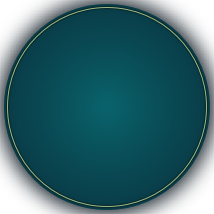
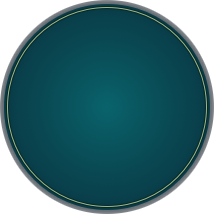
Display speed and distance on gauge

diff --git a/SpeedGauge.qml b/SpeedGauge.qml
@@ -11,6 +11,30 @@ Item {
     source: "assets/svgBackgroundCircle.png"
 
     Image {
+      id: topCircle
+      source: "assets/TopCircle.png"
+      anchors.centerIn: parent
+      Text {
+        id: currentSpeed
+        text: speedControl.value
+        color: "white"
+        font.pixelSize: 32
+        anchors.centerIn: parent
+      }
+      Text {
+        id: distance
+        text: (speedControl.distance / 1000).toFixed(0) + " km"
+        color: "white"
+        font.pixelSize: 16
+        anchors {
+          horizontalCenter: parent.horizontalCenter
+          bottom: parent.bottom
+          bottomMargin: 50
+        }
+
+      }
+    }
+    Image {
       id: speedNumbers
       source: "assets/Speed\ texture.png"
       anchors.centerIn: parent
@@ -39,8 +63,9 @@ Item {
   // Statistics histogram
   Window {
     id: statisticsWindow
-    width: speedHistogram.width
-    height: speedHistogram.height
+    minimumWidth: speedHistogram.width
+    minimumHeight: speedHistogram.height
+    title: "SpeedGauge Histogram"
     visible: true
     Histogram {
       id: speedHistogram

diff --git a/main.qml b/main.qml
@@ -2,11 +2,12 @@ import QtQuick 2.15
 import QtQuick.Window 2.15
 
 Window {
-  width: 640
-  height: 480
+  minimumWidth: speedGauge.width
+  minimumHeight: speedGauge.height
   visible: true
   title: qsTr("SpeedGauge Test")
   SpeedGauge {
+    id: speedGauge
     anchors.top: parent.top
     anchors.horizontalCenter: parent.horizontalCenter
   }

diff --git a/gaugecontrol.cpp b/gaugecontrol.cpp
@@ -51,7 +51,7 @@ void GaugeControl::calculate_value() {
   auto t = to_radians(m_time);
   // I thought "max_value" would be the maximum, but sometimes output larger that max
   // Actual limit is 3.25 / 3.0 = 1.083....
-  m_value = static_cast<int>(abs(sin(t)+sin(4*t)/4+2*sin(t/16))/3 * m_maxValue / (3.25 / 3.0));
+  m_value = static_cast<int>(std::floor((abs(sin(t)+sin(4*t)/4+2*sin(t/16))/3 * m_maxValue / (3.25 / 3.0)) + 0.5));
   emit valueChanged(m_value);
 }
 

diff --git a/README.md b/README.md
@@ -1,16 +1,21 @@
 # Junior task for Siili_Auto 2022
 
+[Screenshot of the application](screenshots/Screenshot1506.png)
+
 ## Notes on each task
 
 ### 1 [QML]: The gauge graphics
 
+TopCircle.png shading was cropped awkwardly, so removed it altogether.
+
 ### 2 [QML,C++]: Velocity Control
 
 Done as QML_NAMED_ELEMENT(GaugeControl). In principle should be able to control any gauge.
+The provided simulation-model would produce values larger than "max_speed" as the function limit really is not 1 but 3.25/3.0. Tried to work around it, but currently high-end speeds are scarcely generated.
 
 ### 3 [C++]: External sources
 
-GaugeControl input defaults to stdin -> allows piping and streaming a text file. E.g. *./speed_simulation | ./appSiili_Task* or *./appSiili_Task << speed_data.txt*. Implemented simple switch -s or --simulated to use internally simulated data. As a consequence you can have simulation and input-reading running simultaneously. Treating as a feature, not a bug: user is responsible.
+GaugeControl input defaults to stdin -> allows piping and streaming a text file. E.g. *"./speed_simulation | ./appSiili_Task"* or *"./appSiili_Task << speed_data.txt"*. Implemented simple switch -s or --simulated to use internally simulated data. As a consequence you can have simulation and input-reading running simultaneously. Treating as a feature, not a bug: user is responsible.
 
 ### 4 [C++]: Run in GUI or terminal
 
@@ -29,7 +34,7 @@ Connected log file writing to SIGNAL(qApp::aboutToQuit). For a console applicati
 
 ### 7 [QML,C++]: Display live statistics
 
-Made a DIY histogram as I couldn't find examples, and as BarSeries lacks options like spacing. Every speed is represented by it's own column, as specified in the task pdf. 
+Made a DIY histogram as I couldn't find examples, and as I was afraid BarSeries would not suffice (lacking the spacing option for example). Every speed is represented by it's own column, as specified in the task pdf.
 
 ## To-Do
 
